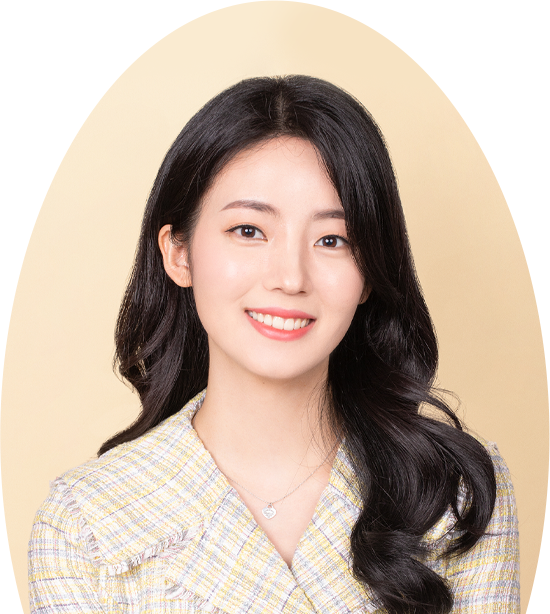
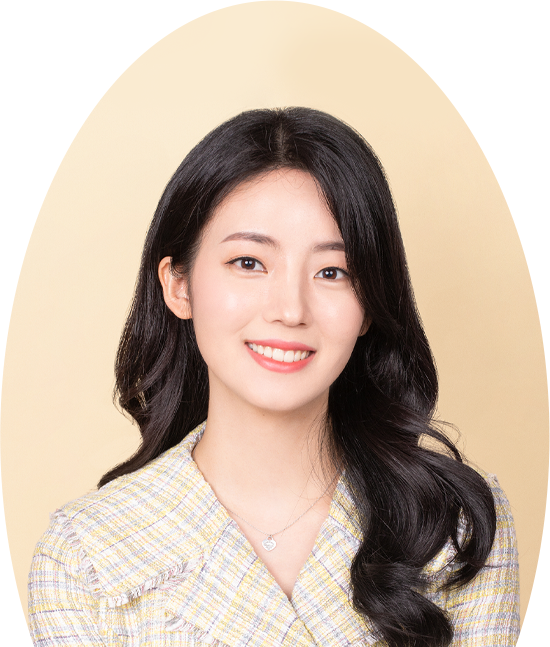
profile 높이 수정_3

diff --git a/profile/css/main.css b/profile/css/main.css
@@ -140,7 +140,7 @@ a:link {
 #profile {
   position: fixed;
   width: 100vw;
-  height: 100vh;
+  height: 980px;
   left: 0;
   top: 0;
   background: #f6ebd6;
@@ -156,7 +156,6 @@ a:link {
   justify-content: center;
   position: relative;
   transform: translate(0, 40%);
-  bottom: 0;
 }
 #profile .svg {
   width: 592px;
@@ -174,7 +173,7 @@ a:link {
 #profile .pic {
   position: absolute;
   left: 50%;
-  bottom: 0;
+  bottom: 52px;
   transform: translate(-50%, 0);
   z-index: 9999;
 }
